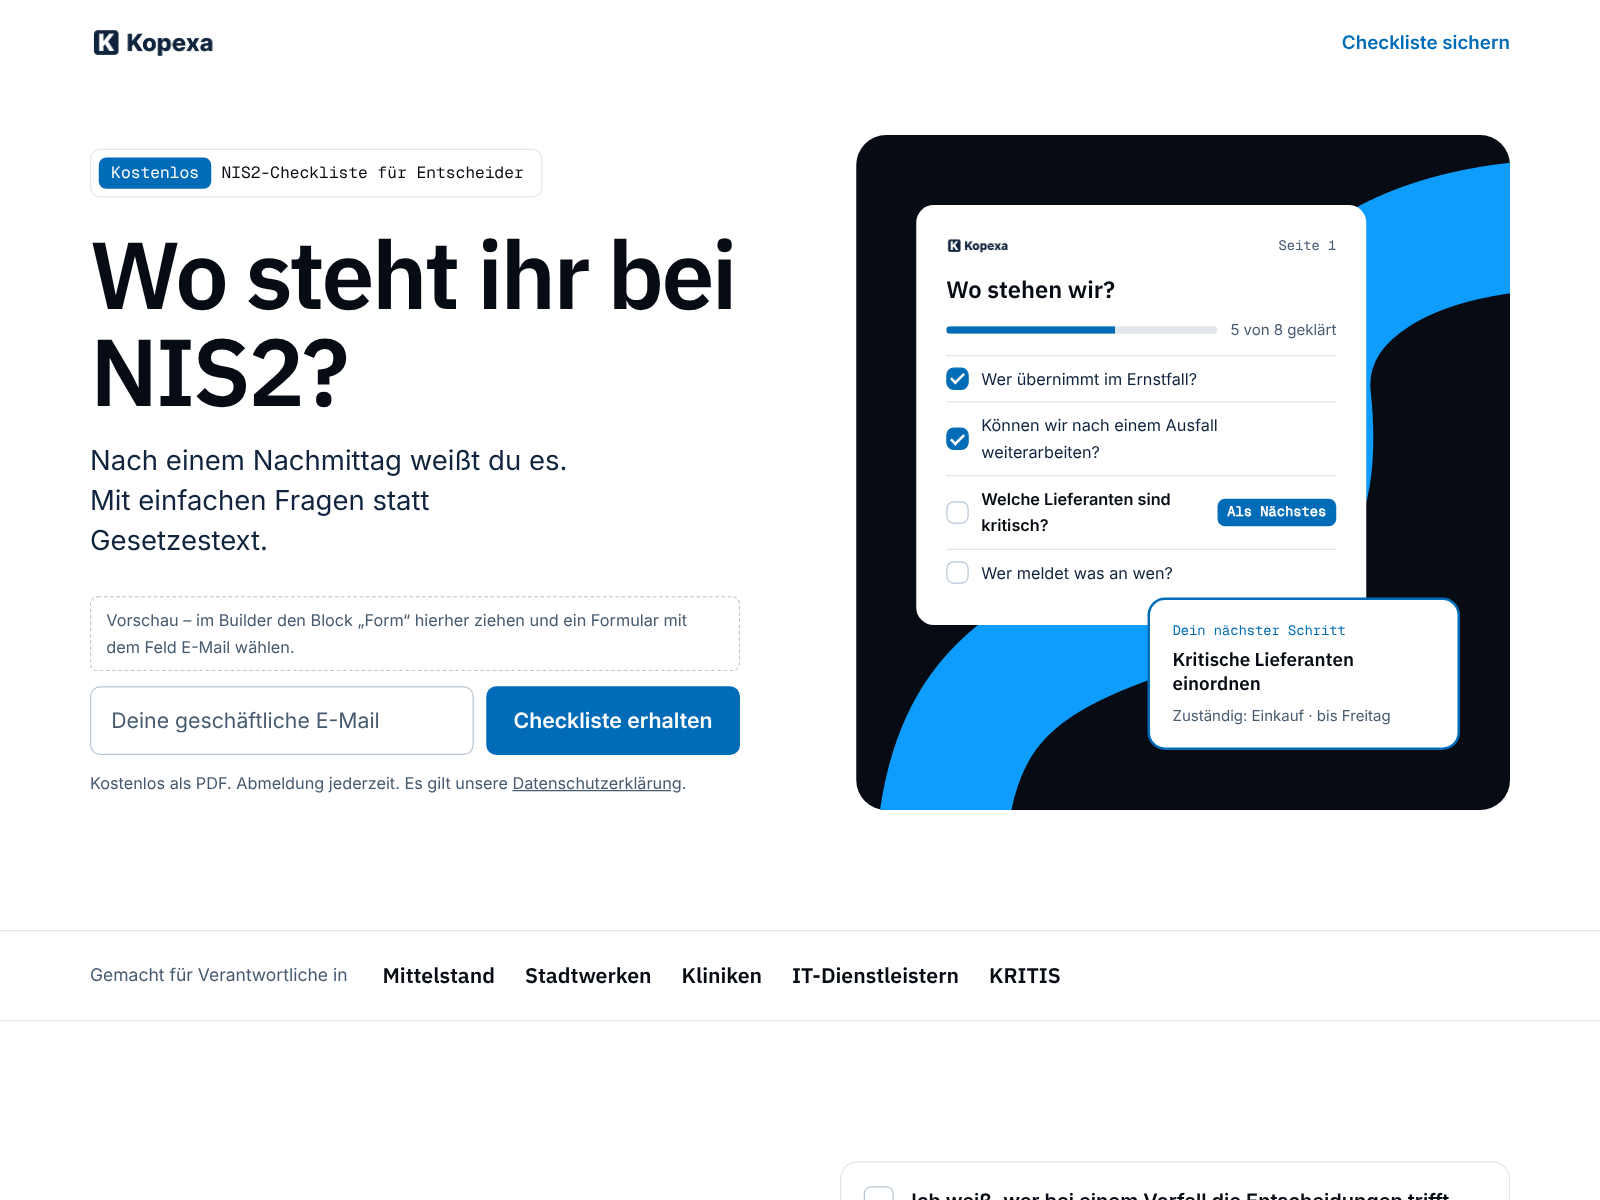
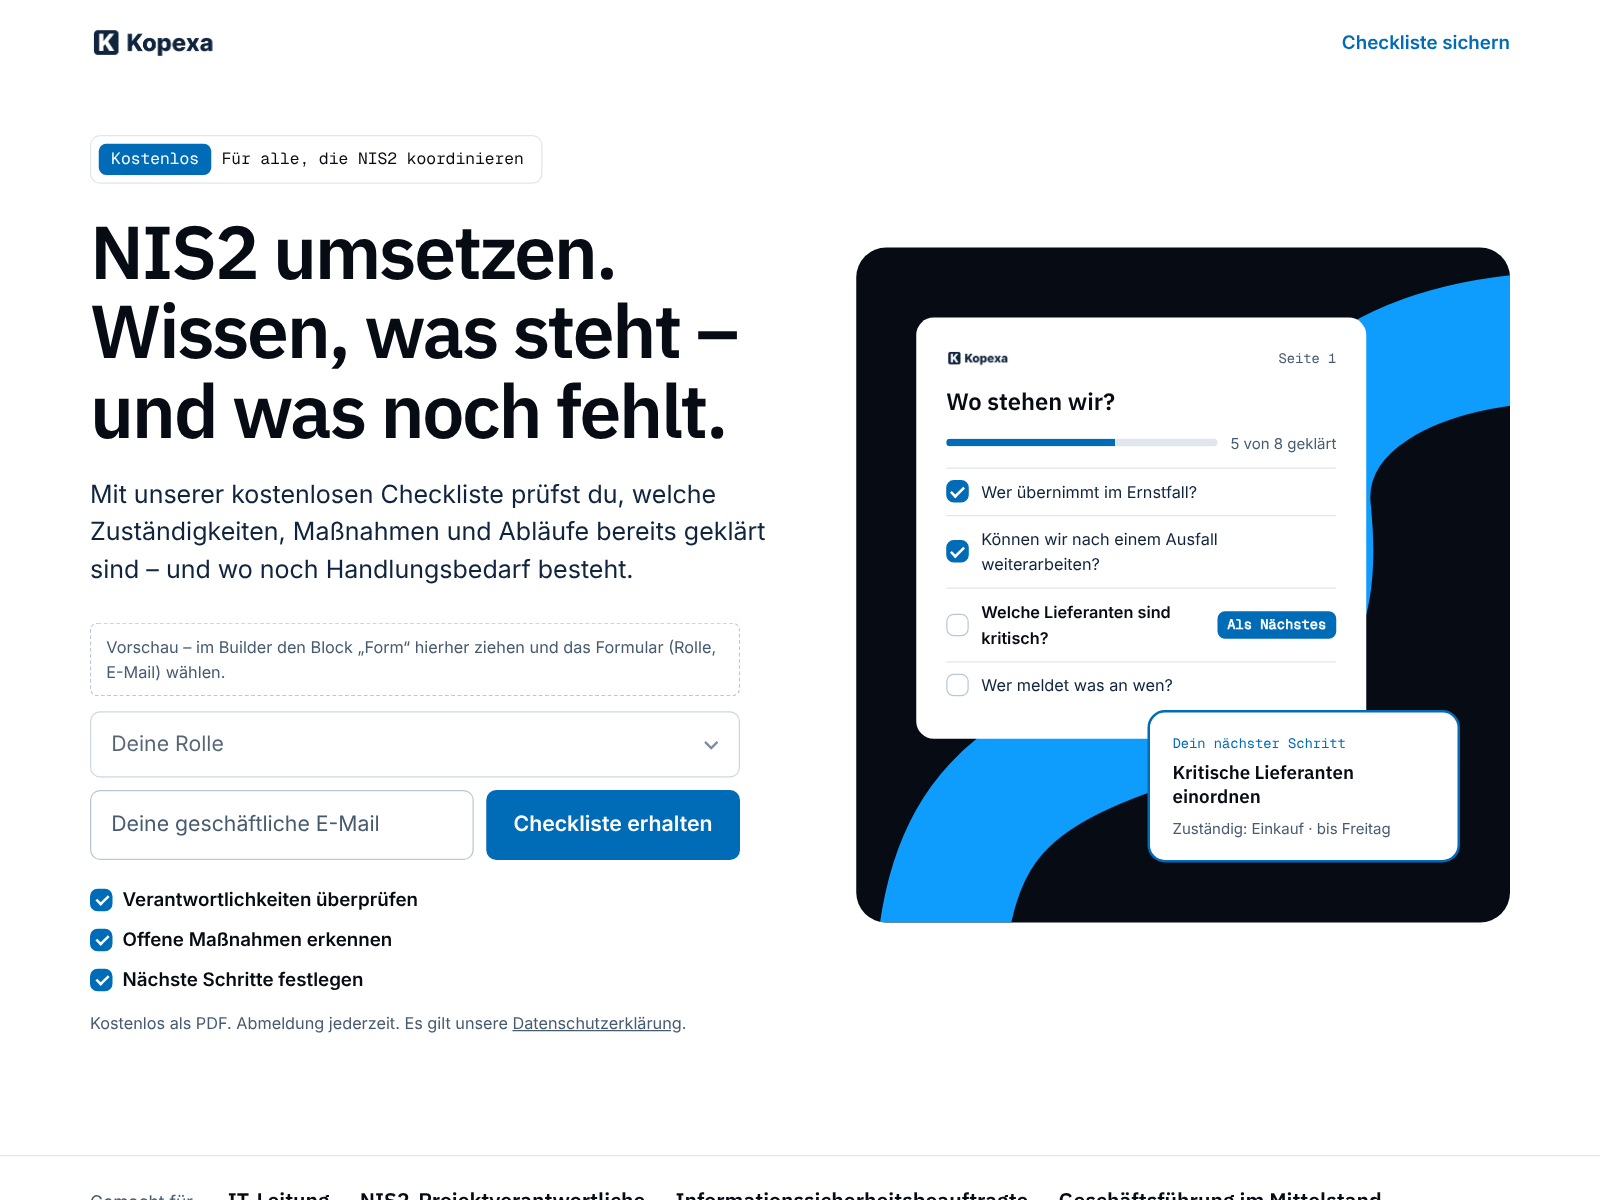
feat(theme): landing page aimed at the people who implement NIS2
Headline „NIS2 umsetzen. Wissen, was steht – und was noch fehlt.“, three
promises under the form, role select in the form to qualify leads,
audience by role (IT lead, NIS2 project owner, ISB, management),
self-check and outcomes from the implementer's view, honest answer to
„Betrifft NIS2 mein Unternehmen?“, funnel notes in the README.

diff --git a/image/extensions/mautic-theme-kopexa-page/README.md b/image/extensions/mautic-theme-kopexa-page/README.md
@@ -7,11 +7,16 @@ route, Action Blue for actions. Mobile first.
 
 ![Preview](thumbnail.png)
 
+Audience: the person who has just been asked to coordinate NIS2 — IT
+leads, NIS2 project owners, information security officers; management in
+mid-sized companies second. Not people who only want to learn about NIS2:
+the copy speaks to implementing it, the form asks for the role.
+
 Built for conversion:
 
-- **One offer, one field.** The hero asks only for the email address,
-  next to the button (stacked on phones). Ask for name and company later
-  with Mautic's progressive profiling instead of up front.
+- **One offer, two fields.** Role (select) and email next to the button
+  (stacked on phones): the role qualifies the lead at almost no cost. Ask
+  for name and company later with Mautic's progressive profiling.
 - **Benefit before features.** Short headline, the outcome in plain
   language, no technical terms ("Nach einem Nachmittag weißt du es").
 - **The offer is visible.** An art-directed preview of the checklist with
@@ -27,15 +32,20 @@ Sections are independent: delete, duplicate or reorder them in the builder.
 ## Setting up the download
 
 1. Upload the PDF as an **asset** (*Components → Assets*).
-2. Create a **form** with the field *Email* (required; placeholder
-   „Deine geschäftliche E-Mail“) and a submit button „Checkliste erhalten“.
+2. Create a **form** with a select *Rolle* (IT-Leitung, NIS2-Projekt-
+   verantwortung / ISB, Geschäftsführung, Beratung, Andere; first option
+   „Deine Rolle“ as placeholder, mapped to a contact field), the field
+   *Email* (required; placeholder „Deine geschäftliche E-Mail“) and a
+   submit button „Checkliste erhalten“.
    Action: *Download an asset* or *Send email to contact* with the asset
    link; post-submit message, e.g. „Danke! Die Checkliste ist unterwegs zu
    dir.“ Optional: progressive profiling for first name and company.
 3. Create the landing page with this theme and drag the builder's *Form*
    block onto the dashed preview in the hero (it replaces the preview).
-4. Optional: lead scoring with a point action *Downloads an asset* or
-   *Submits a form* and a follow-up campaign on the form's segment.
+4. Funnel: checklist → follow-up on measures, evidence, risks and
+   responsibilities → Kopexa demo. Score the download (point action
+   *Downloads an asset*), weight the role (e.g. a dynamic segment on
+   IT-Leitung / NIS2 owners) and start the follow-up campaign from it.
 
 The texts are examples written to the brand's rules (informal *du*,
 problem line above the solution, no promises, no invented figures or

diff --git a/image/extensions/mautic-theme-kopexa-page/CHANGELOG.md b/image/extensions/mautic-theme-kopexa-page/CHANGELOG.md
@@ -1,5 +1,13 @@
 # Changelog
 
+## 0.3.0 – 2026-11-04
+
+- Aimed at the people who implement NIS2 (IT leads, NIS2 project owners,
+  ISB; management second): headline „NIS2 umsetzen. Wissen, was steht –
+  und was noch fehlt.“, three promises under the form, role field in the
+  form, audience by role, self-check and outcomes from the implementer's
+  view, honest answer to „Betrifft NIS2 mein Unternehmen?“.
+
 ## 0.2.0 – 2026-11-04
 
 - Rebuilt as a lead-gen page for a free download: one-field form next to
